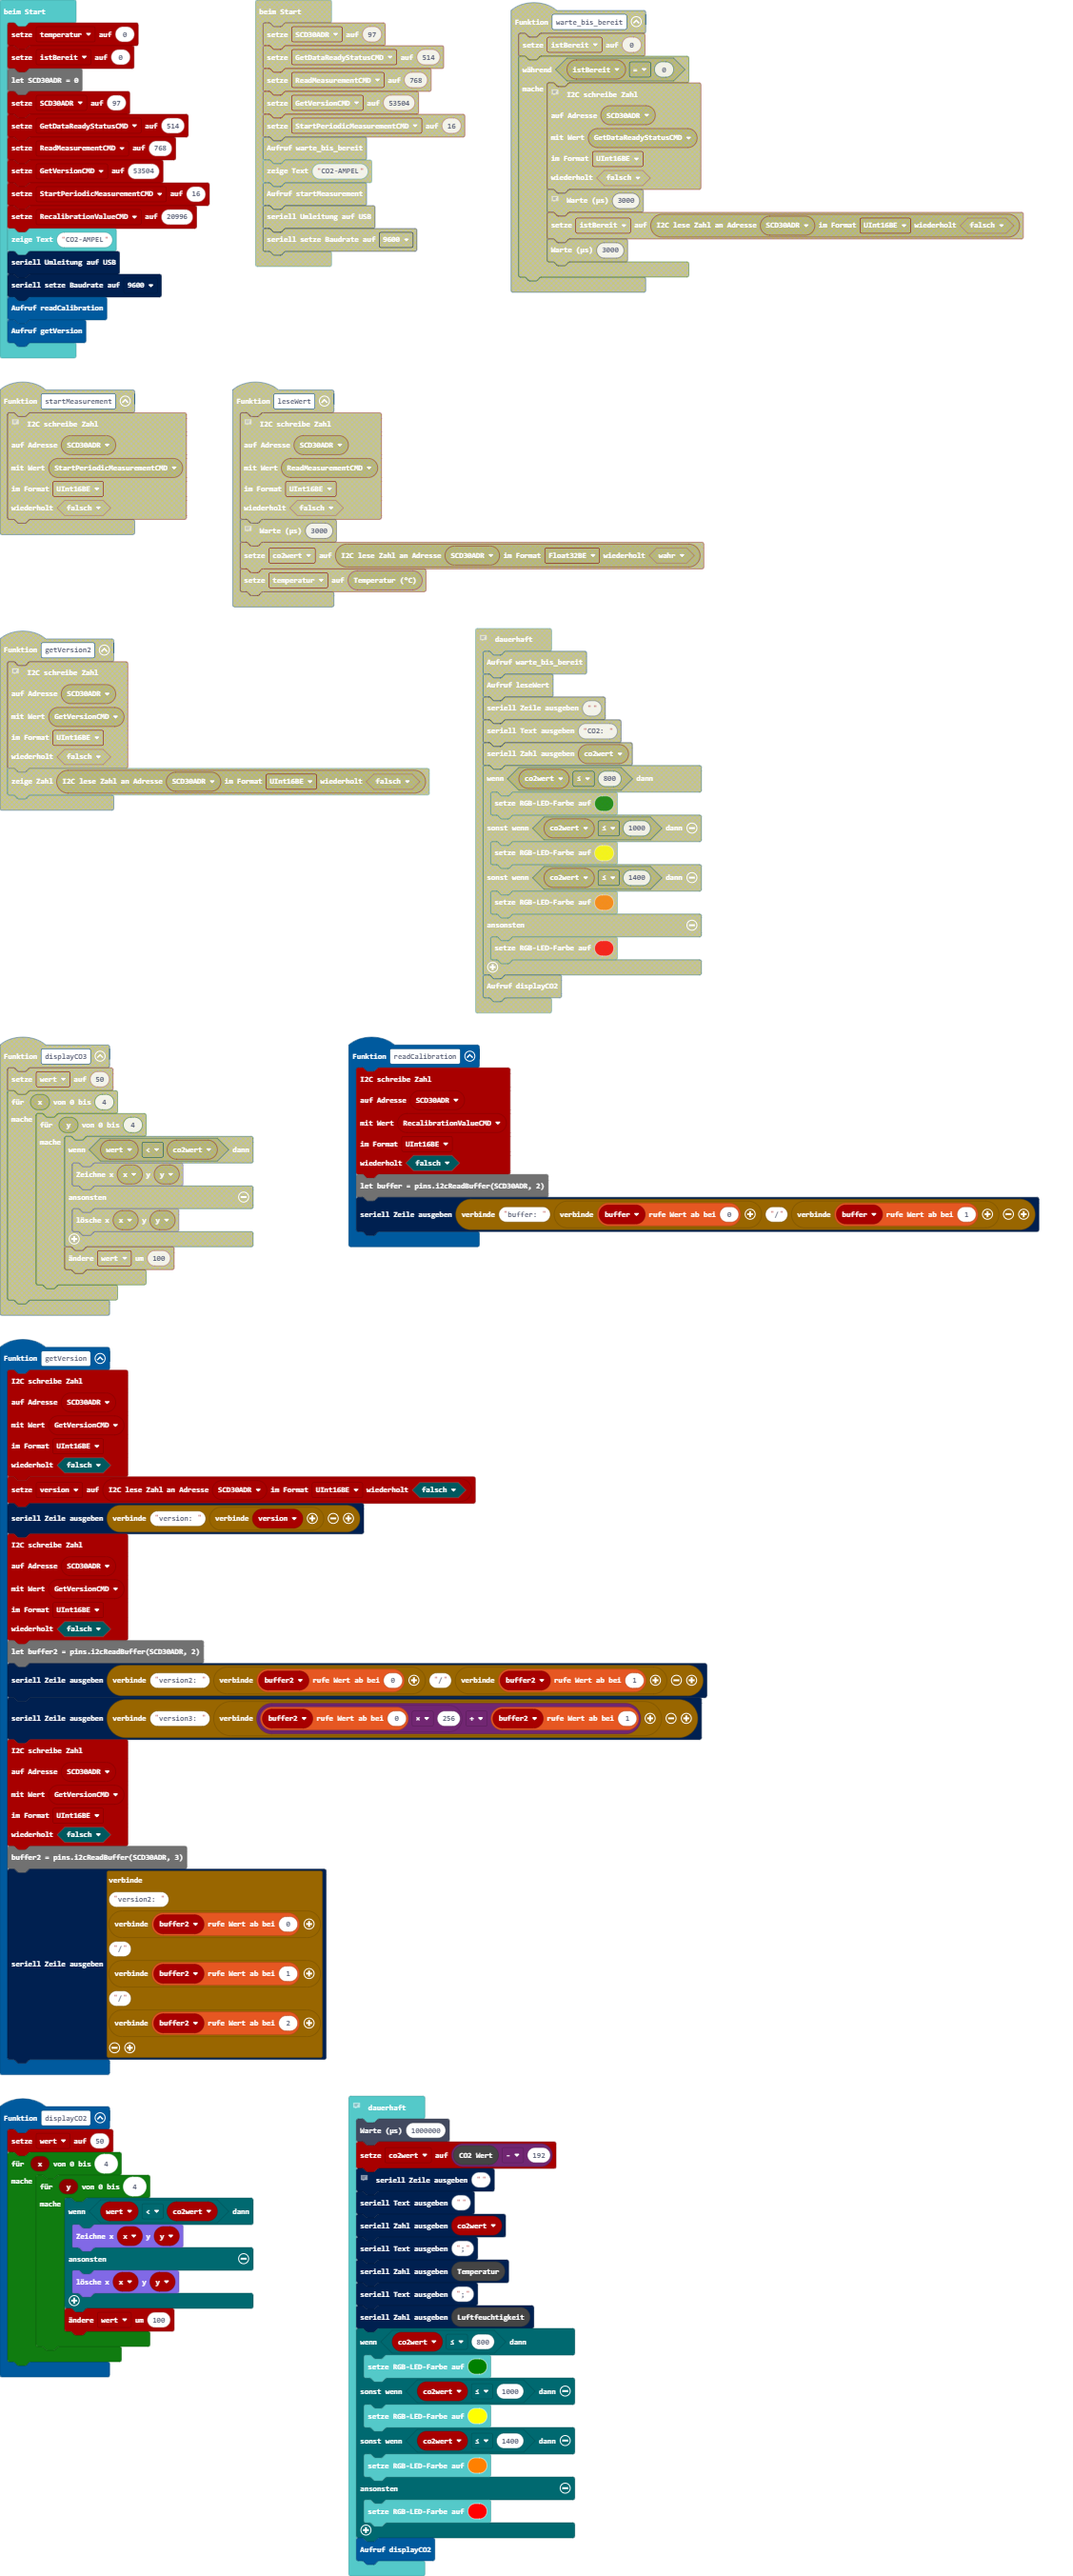
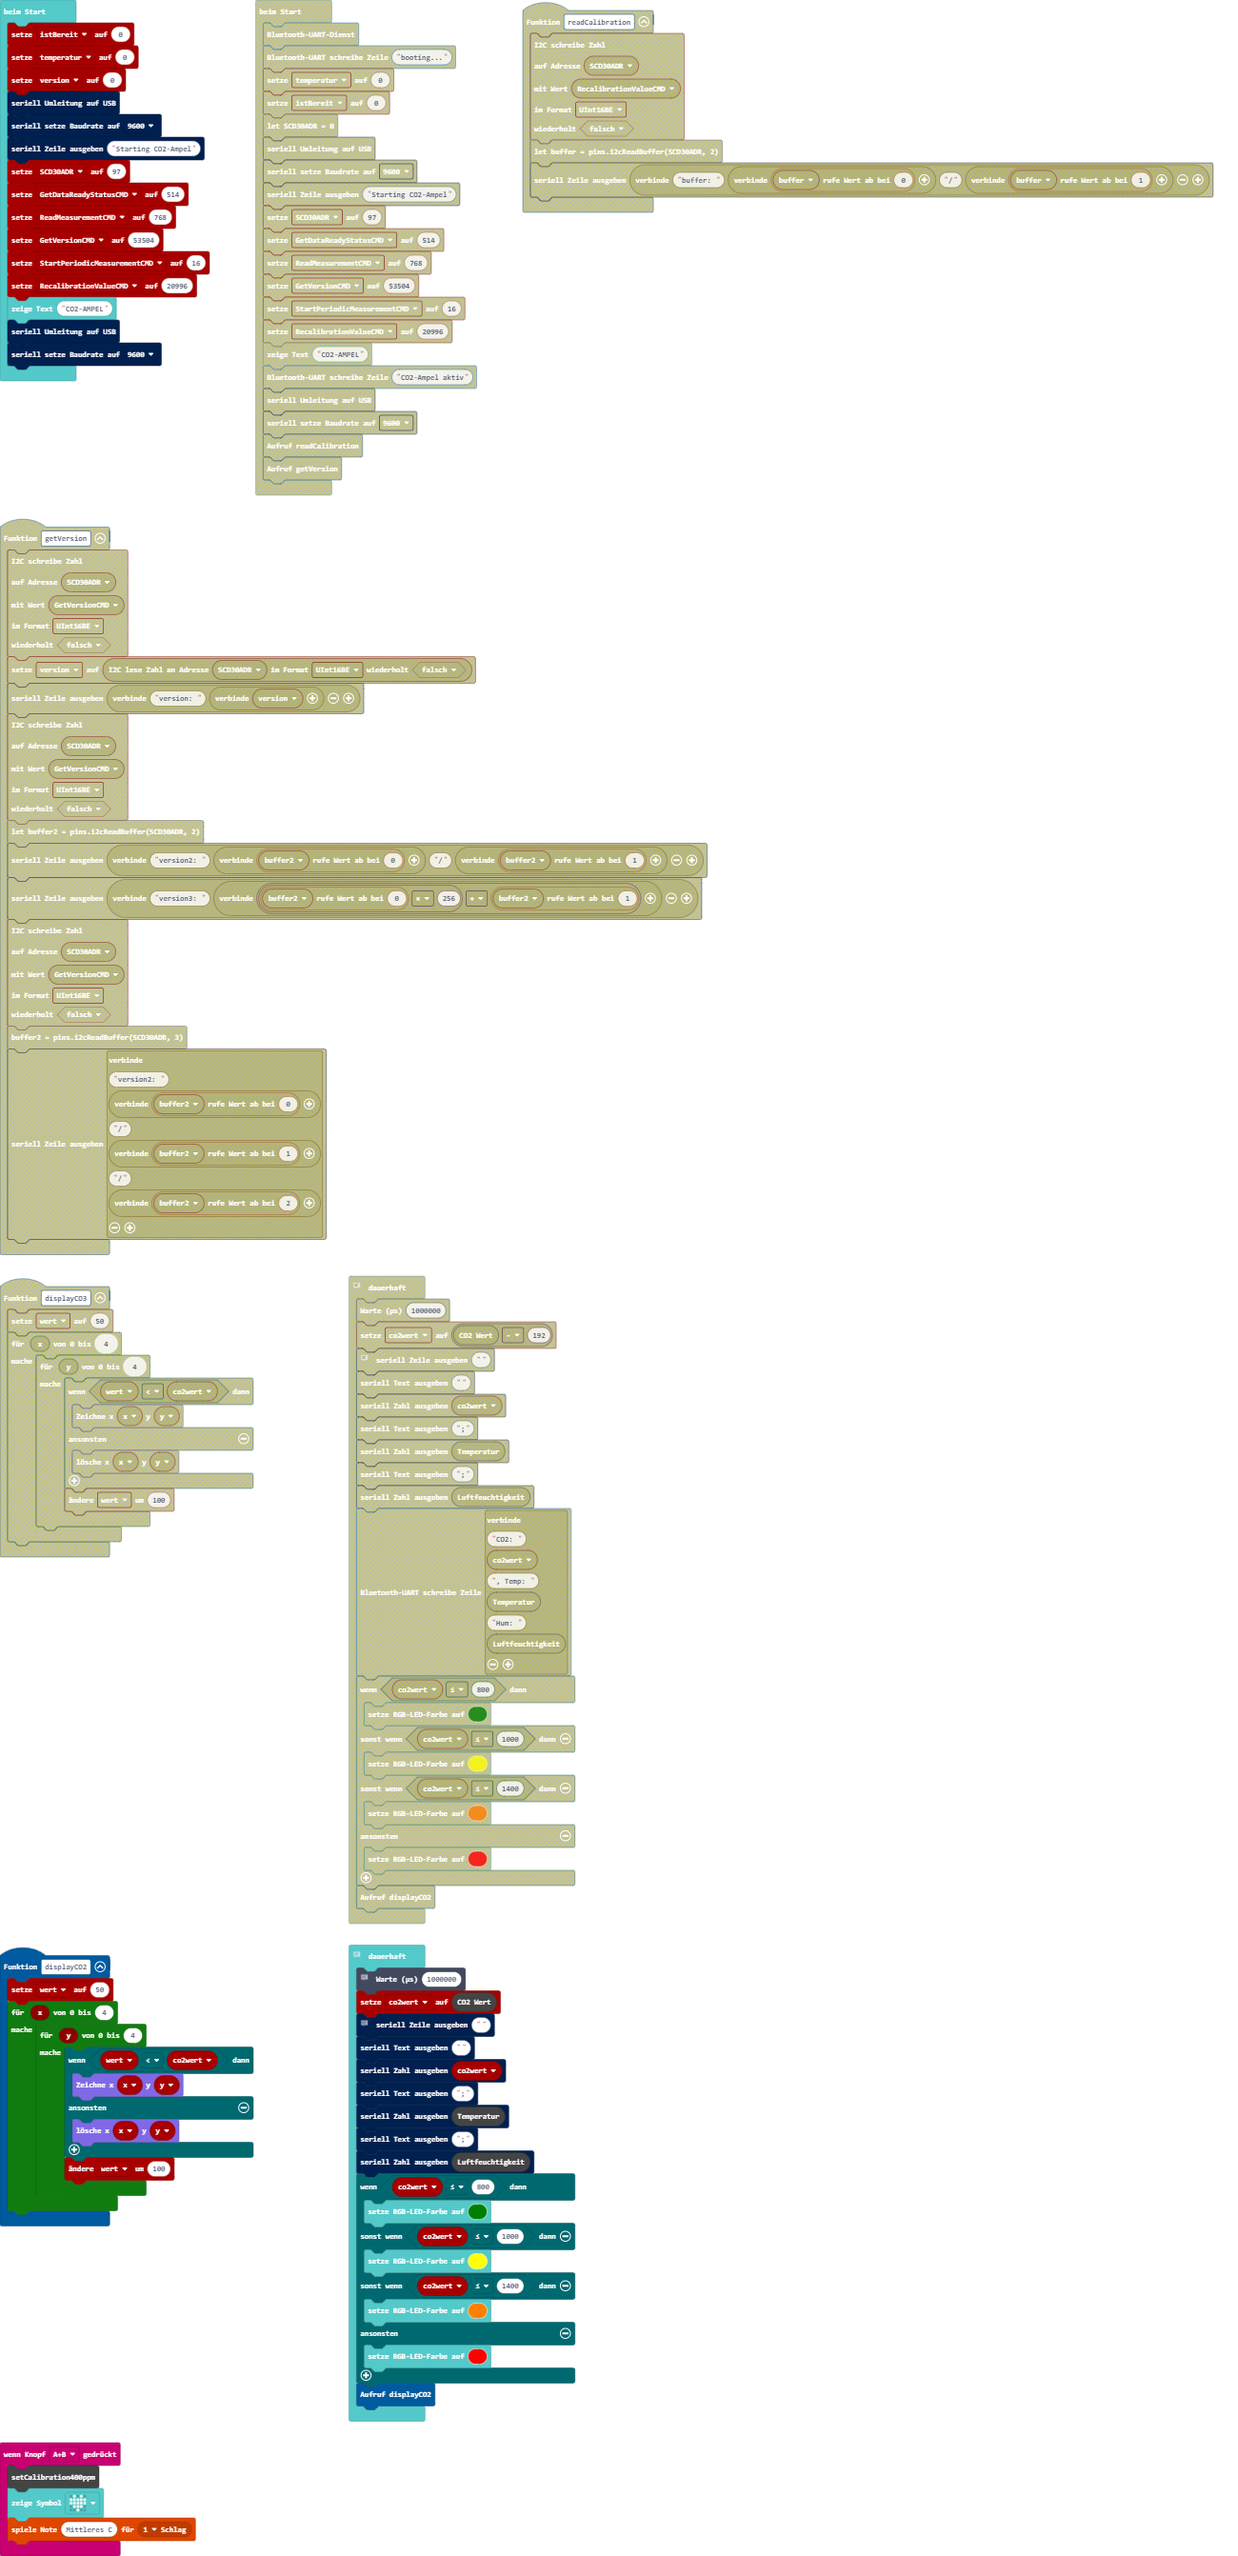
removed bluetooth

diff --git a/main.ts b/main.ts
@@ -1,3 +1,8 @@
+input.onButtonPressed(Button.AB, function () {
+    SCD30.setCalibration400ppm()
+    basic.showIcon(IconNames.Heart)
+    music.playTone(262, music.beat(BeatFraction.Whole))
+})
 function displayCO2 () {
     wert = 50
     for (let x = 0; x <= 4; x++) {
@@ -13,25 +18,19 @@ function displayCO2 () {
 }
 let co2wert = 0
 let wert = 0
-let version = 0
-let RecalibrationValueCMD = 0
-let GetVersionCMD = 0
-bluetooth.startUartService()
-bluetooth.uartWriteLine("booting...")
-let temperatur = 0
 let istBereit = 0
-let SCD30ADR = 0
+let temperatur = 0
+let version = 0
 serial.redirectToUSB()
 serial.setBaudRate(BaudRate.BaudRate9600)
 serial.writeLine("Starting CO2-Ampel")
-SCD30ADR = 97
+let SCD30ADR = 97
 let GetDataReadyStatusCMD = 514
 let ReadMeasurementCMD = 768
-GetVersionCMD = 53504
+let GetVersionCMD = 53504
 let StartPeriodicMeasurementCMD = 16
-RecalibrationValueCMD = 20996
+let RecalibrationValueCMD = 20996
 basic.showString("CO2-AMPEL")
-bluetooth.uartWriteLine("CO2-Ampel aktiv")
 serial.redirectToUSB()
 serial.setBaudRate(BaudRate.BaudRate9600)
 // Protokollbeschreibung des Sensors
@@ -41,7 +40,7 @@ serial.setBaudRate(BaudRate.BaudRate9600)
 basic.forever(function () {
     // warte eine Sekunde
     control.waitMicros(1000000)
-    co2wert = SCD30.readCO2() - 192
+    co2wert = SCD30.readCO2()
     // co2wert = scd30.lese_CO2_Wert()()
     serial.writeLine("")
     serial.writeString("")
@@ -50,7 +49,6 @@ basic.forever(function () {
     serial.writeNumber(SCD30.readTemperature())
     serial.writeString(";")
     serial.writeNumber(SCD30.readHumidity())
-    bluetooth.uartWriteLine("CO2: " + co2wert + ", Temp: " + SCD30.readTemperature() + "Hum: " + SCD30.readHumidity())
     if (co2wert <= 800) {
         basic.setLedColor(0x008000)
     } else if (co2wert <= 1000) {
